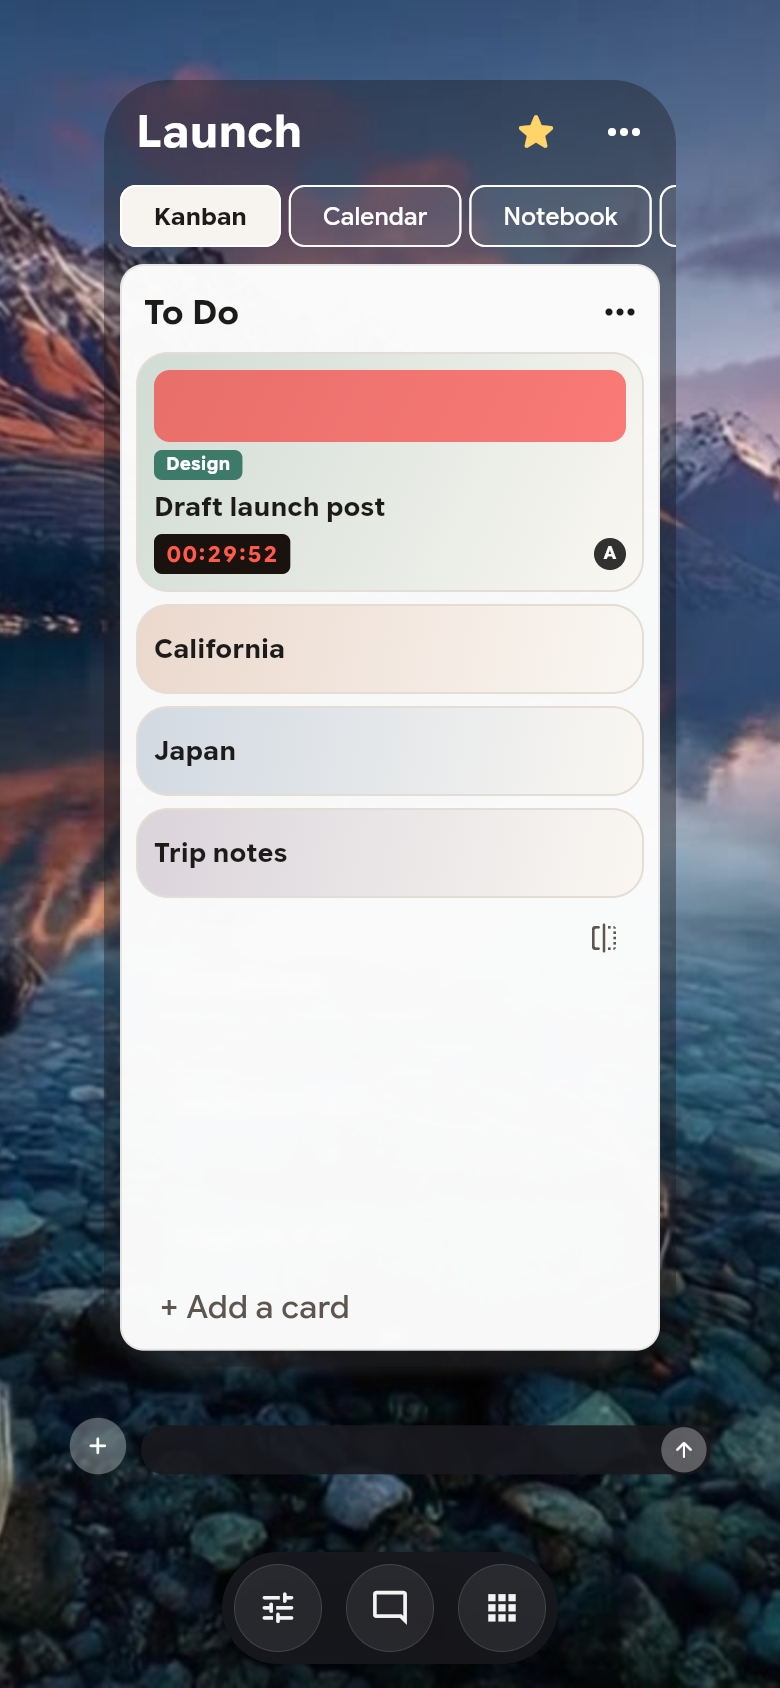
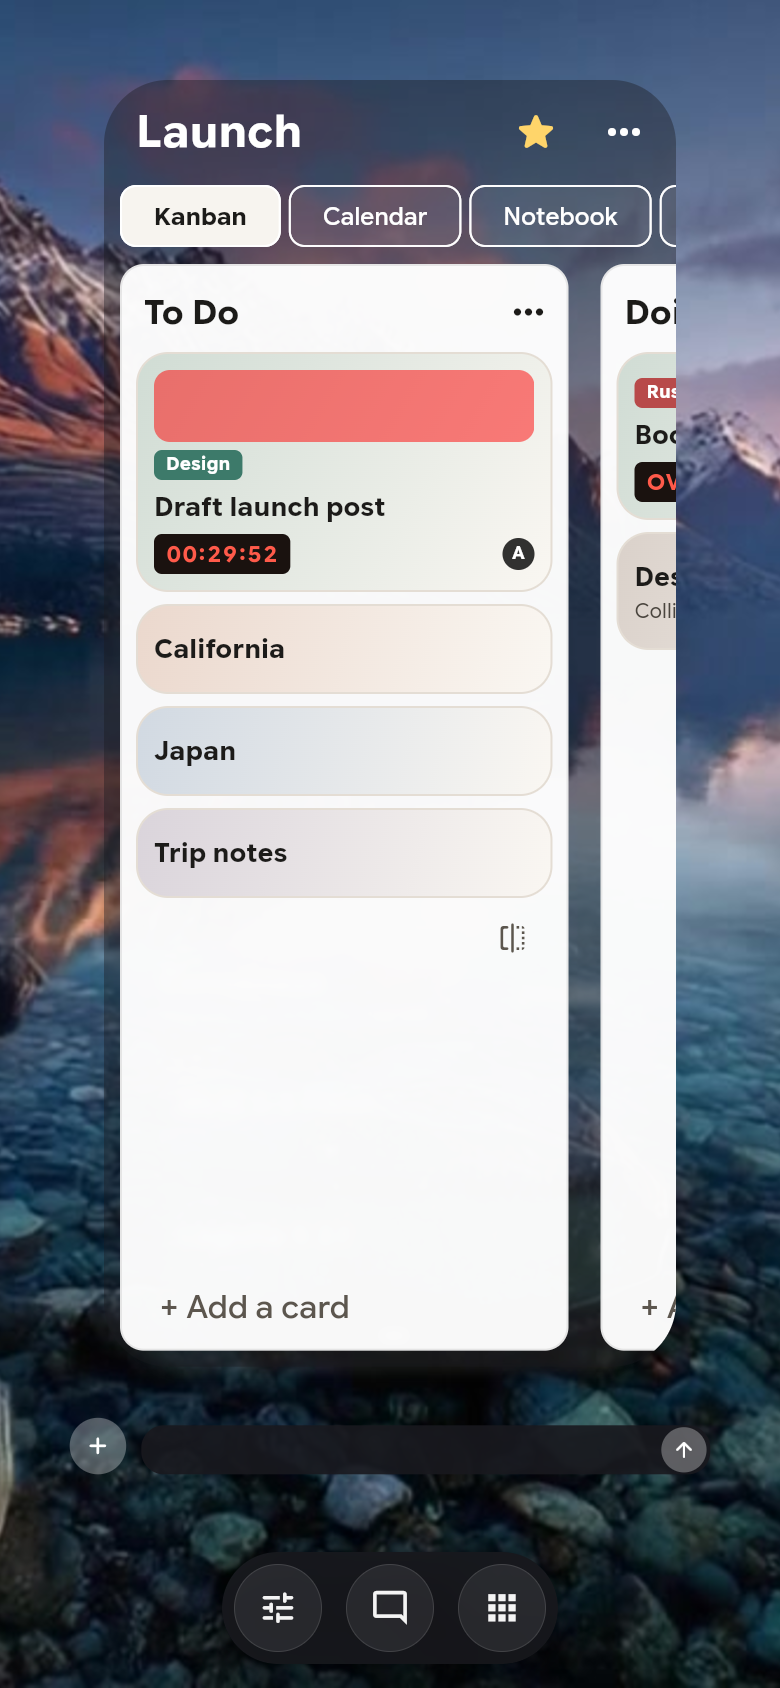
Hold a kanban swipe between lists instead of snapping to the next one.
A fractional page was rounding up to Doing. The capture now stays between snap points, with the next list peeking and + Add list at the end.

Changed region(s): [[0.6462, 0.154, 0.8923, 0.8009]]

diff --git a/lib/features/smartgen/sg_views.dart b/lib/features/smartgen/sg_views.dart
@@ -204,19 +204,51 @@ class SgKanban extends StatefulWidget {
 
 class _SgKanbanState extends State<SgKanban> {
   late final PageController _pages = PageController(viewportFraction: SgKanban.listFraction);
+  int _pageTries = 0;
+  int _stable = 0;
 
   @override
   void initState() {
     super.initState();
-    if (widget.initialPage != 0) {
-      WidgetsBinding.instance.addPostFrameCallback((_) => _showPage());
+    _schedulePage();
+  }
+
+  @override
+  void didUpdateWidget(SgKanban old) {
+    super.didUpdateWidget(old);
+    if (old.initialPage != widget.initialPage) {
+      _pageTries = 0;
+      _stable = 0;
+      _schedulePage();
     }
   }
 
+  void _schedulePage() {
+    if (widget.initialPage == 0) return;
+    WidgetsBinding.instance.addPostFrameCallback((_) => _showPage());
+  }
+
+  /// A capture such as 0.5 must stay between snap points. [PageController.jumpTo]
+  /// ends in a ballistic settle, and page physics round 0.5 up to the next list.
+  bool get _holdBetween => (widget.initialPage - widget.initialPage.round()).abs() > 0.001;
+
+  /// The pane's width settles a frame or two after the first layout. Keep
+  /// placing the page until that width has held still, or a fractional page
+  /// drifts onto the next list.
   void _showPage() {
-    if (!mounted || !_pages.hasClients || _pages.position.viewportDimension == 0) return;
-    final target = widget.initialPage * _pages.position.viewportDimension * _pages.viewportFraction;
-    _pages.jumpTo(target.clamp(0, _pages.position.maxScrollExtent));
+    if (!mounted || widget.initialPage == 0 || _pageTries > 12) return;
+    _pageTries++;
+    if (_pages.hasClients && _pages.position.hasContentDimensions && _pages.position.viewportDimension > 0) {
+      final pos = _pages.position;
+      final target = (widget.initialPage * pos.viewportDimension * _pages.viewportFraction).clamp(0.0, pos.maxScrollExtent);
+      if ((pos.pixels - target).abs() <= 0.5) {
+        _stable++;
+      } else {
+        _stable = 0;
+        pos.jumpTo(target);
+      }
+    }
+    if (_stable < 3) _schedulePage();
   }
 
   @override
@@ -234,6 +266,7 @@ class _SgKanbanState extends State<SgKanban> {
       child: PageView.builder(
         controller: _pages,
         padEnds: false,
+        pageSnapping: !_holdBetween,
         itemCount: lists.length + 1,
         itemBuilder: (context, i) {
           return i == lists.length ? _addList() : _column(b, lists[i]);

diff --git a/test/smart_gen_ledger_test.dart b/test/smart_gen_ledger_test.dart
@@ -129,6 +129,29 @@ void main() {
     expect(add.right, lessThanOrEqualTo(287));
   });
 
+  testWidgets('a fractional page rests between two lists', (tester) async {
+    final store = SgStore()..ensureStarter();
+    await tester.pumpWidget(MaterialApp(
+      home: Scaffold(
+        body: SizedBox(
+          width: 286,
+          height: 520,
+          child: SgKanban(store: store, onOpen: (_) {}, initialPage: 0.5),
+        ),
+      ),
+    ));
+    await tester.pump();
+    await tester.pump(const Duration(seconds: 1));
+    final todo = tester.getRect(find.text('To Do'));
+    final doing = tester.getRect(find.text('Doing'));
+    expect(todo.left, lessThan(0), reason: 'To Do should be sliding off');
+    expect(todo.right, greaterThan(40), reason: 'To Do should still be on screen');
+    expect(todo.right, lessThan(286));
+    expect(doing.left, greaterThan(todo.right));
+    expect(doing.left, lessThan(200));
+    expect(doing.right, greaterThan(286), reason: 'Doing should run off the right edge');
+  });
+
   testWidgets('every chip on the card sheet clears 4.5:1 and the actions are fully visible', (tester) async {
     tester.view.physicalSize = const Size(390, 6400);
     tester.view.devicePixelRatio = 1;

diff --git a/lib/features/smartgen/sg_pane.dart b/lib/features/smartgen/sg_pane.dart
@@ -42,6 +42,8 @@ class _SgPaneState extends State<SgPane> {
   @override
   void initState() {
     super.initState();
+    final kp = Uri.base.queryParameters['kpage'];
+    if (kp != null && kp != 'last') _kanbanPage = double.tryParse(kp) ?? 0;
     store.addListener(_onStore);
     _boot();
   }
